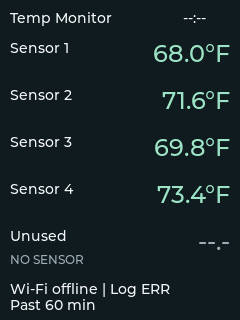
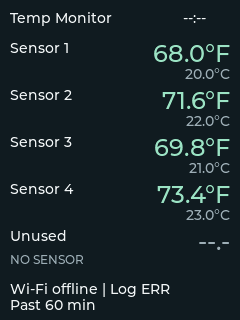
feat(display): show each reading in both Celsius and Fahrenheit on the Overview

diff --git a/firmware/display_tests/display_tests.cpp b/firmware/display_tests/display_tests.cpp
@@ -84,11 +84,20 @@ int main(int argc, char **argv) {
             Registry extreme_registry;
             extreme_registry.sample(extremes, 0);
             const auto fahrenheit_rows = display_rows(extreme_registry, true);
+            CHECK(fahrenheit_rows[0].alt_value == "125.0\xC2\xB0"
+                                                  "C");
+            CHECK(fahrenheit_rows[1].alt_value == "-55.0\xC2\xB0"
+                                                  "C");
+            CHECK(fahrenheit_rows[2].alt_value.empty()); // unused slot has no second unit
             CHECK(fahrenheit_rows[0].value == "257.0\xC2\xB0"
                                               "F");
             CHECK(fahrenheit_rows[1].value == "-67.0\xC2\xB0"
                                               "F");
             const auto celsius_rows = display_rows(extreme_registry, false);
+            CHECK(celsius_rows[0].alt_value == "257.0\xC2\xB0"
+                                               "F");
+            CHECK(celsius_rows[1].alt_value == "-67.0\xC2\xB0"
+                                               "F");
             CHECK(celsius_rows[0].value == "125.0\xC2\xB0"
                                            "C");
             CHECK(celsius_rows[1].value == "-55.0\xC2\xB0"
@@ -213,6 +222,7 @@ int main(int argc, char **argv) {
         CHECK(footer_text().find("Hold BOOT 75%") != std::string::npos);
         save("overview-off-and-lost");
         CHECK(display_rows(registry, false)[0].value == "OFF");
+        CHECK(display_rows(registry, false)[0].alt_value.empty()); // no reading, no second unit
         for (const auto &row : display_rows(registry, false))
             CHECK(row.value == "OFF" || row.value == "--.-");
         view.provisioning("TempMonitor-A1B2C3", "K7M4Q9XP2WTD", "H5RB2WTDK7M4Q9XP");
@@ -266,11 +276,35 @@ int main(int argc, char **argv) {
             lv_tick_inc(50);
             lv_refr_now(display);
             save("overview-compact-fahrenheit");
+            {
+                // Each reading shows in both scales on the compact Overview.
+                const auto both = visible_text(lv_screen_active());
+                for (const char *expected : {"257.0\xC2\xB0"
+                                             "F",
+                                             "125.0\xC2\xB0"
+                                             "C",
+                                             "-67.0\xC2\xB0"
+                                             "F",
+                                             "-55.0\xC2\xB0"
+                                             "C",
+                                             "64.5\xC2\xB0"
+                                             "F",
+                                             "18.1\xC2\xB0"
+                                             "C"})
+                    CHECK(both.find(expected) != std::string::npos);
+            }
             options.fahrenheit = false;
             view.render(compact_registry, cache, options, status, 1000);
             lv_tick_inc(50);
             lv_refr_now(display);
             save("overview-compact-celsius");
+            {
+                const auto both = visible_text(lv_screen_active());
+                CHECK(both.find("125.0\xC2\xB0"
+                                "C") != std::string::npos);
+                CHECK(both.find("257.0\xC2\xB0"
+                                "F") != std::string::npos);
+            }
             options.fahrenheit = true;
         }
         options.extended = true;

diff --git a/firmware/components/display_service/display_view.cpp b/firmware/components/display_service/display_view.cpp
@@ -82,6 +82,16 @@ DisplayView::DisplayView() {
                 compact ? &lv_font_montserrat_12
                         : (s == &overview_ ? &lv_font_montserrat_24 : &lv_font_montserrat_14));
             lv_obj_set_style_text_align(s->values[i], LV_TEXT_ALIGN_RIGHT, 0);
+            if (s == &overview_) {
+                // The same reading in the other unit, under the main value; hidden unless the
+                // row has a numeric reading, so it never meets the status text on the left.
+                s->alts[i] = label(s->root, compact ? 60 : 114, top + (compact ? 12 : 26),
+                                   compact ? 66 : 116,
+                                   compact ? &lv_font_montserrat_12 : &lv_font_montserrat_14);
+                lv_obj_set_style_text_align(s->alts[i], LV_TEXT_ALIGN_RIGHT, 0);
+                lv_obj_set_style_text_color(s->alts[i], lv_color_hex(setup_muted), 0);
+                lv_obj_set_hidden(s->alts[i], true);
+            }
             s->states[i] =
                 label(s->root, large_trend ? 2 : (compact ? 2 : (s == &overview_ ? 10 : 160)),
                       large_trend ? 122 : top + (compact ? 12 : 24),
@@ -201,8 +211,11 @@ void DisplayView::render(const Registry &registry, const TrendCache &cache,
             text_color(s->values[i], color(row.state));
             // The Trends status text depends on chart data computed below; setting it here and
             // overwriting it later flipped the label twice on every refresh.
-            if (s == &overview_)
+            if (s == &overview_) {
                 text(s->states[i], row.status);
+                text(s->alts[i], row.alt_value);
+                lv_obj_set_hidden(s->alts[i], row.alt_value.empty());
+            }
             text_color(s->states[i], color(row.state));
         }
         if (plots_changed || chart_roms_[i] != row.rom) {

diff --git a/firmware/components/monitor_core/display_model.cpp b/firmware/components/monitor_core/display_model.cpp
@@ -90,11 +90,14 @@ std::array<DisplayRow, max_sensors> display_rows(const Registry &registry, bool 
         }
         if ((row.state == State::normal || row.state == State::high || row.state == State::low) &&
             sensor.temperature && std::isfinite(*sensor.temperature)) {
+            const double celsius = *sensor.temperature, degrees_f = celsius * 1.8 + 32;
             char text[24];
-            std::snprintf(text, sizeof(text), "%.1f\xC2\xB0%s",
-                          fahrenheit ? *sensor.temperature * 1.8 + 32 : *sensor.temperature,
+            std::snprintf(text, sizeof(text), "%.1f\xC2\xB0%s", fahrenheit ? degrees_f : celsius,
                           fahrenheit ? "F" : "C");
             row.value = text;
+            std::snprintf(text, sizeof(text), "%.1f\xC2\xB0%s", fahrenheit ? celsius : degrees_f,
+                          fahrenheit ? "C" : "F");
+            row.alt_value = text;
         }
     }
     return rows;

diff --git a/firmware/components/monitor_core/include/display_model.hpp b/firmware/components/monitor_core/include/display_model.hpp
@@ -28,7 +28,9 @@ struct DisplayStatus {
 };
 struct DisplayRow {
     uint64_t rom = 0;
-    std::string label, value, status;
+    // `value` is in the configured unit; `alt_value` is the same reading in the other unit and
+    // is empty unless the row has a numeric reading.
+    std::string label, value, alt_value, status;
     State state = State::unassigned;
 };
 std::array<DisplayRow, max_sensors> display_rows(const Registry &registry, bool fahrenheit);

diff --git a/firmware/components/display_service/include/display_view.hpp b/firmware/components/display_service/include/display_view.hpp
@@ -19,7 +19,7 @@ class DisplayView {
   private:
     struct Screen {
         lv_obj_t *root, *time, *footer;
-        std::array<lv_obj_t *, max_sensors> labels{}, values{}, states{}, charts{};
+        std::array<lv_obj_t *, max_sensors> labels{}, values{}, alts{}, states{}, charts{};
         std::array<lv_obj_t *, max_sensors> no_data{};
         std::array<lv_chart_series_t *, max_sensors> series{};
     };

diff --git a/docs/LCD_UI_DESIGN_SPEC.md b/docs/LCD_UI_DESIGN_SPEC.md
@@ -42,7 +42,7 @@ No carousel, navigation strip, touch target, or on-screen settings control. A te
 **Content:**
 
 1. Header: short product name (`Temp Monitor` or `Temps`), compact Wi-Fi state icon, **local time** (`HH:MM`) when synchronized.
-2. Five fixed-order sensor rows, one per discovered or configured slot. Each row: abbreviated sensor label, prominent current temperature with unit (°C/°F), and warning/status icon as applicable.
+2. Five fixed-order sensor rows, one per discovered or configured slot. Each row: abbreviated sensor label, prominent current temperature in the configured unit (°C/°F), the same reading in the other unit in a smaller muted line beneath it (shown only when the row has a numeric reading), and warning/status icon as applicable. The Trends screen keeps a single unit.
 3. Lower status band: concise connectivity and logging/storage health indicators. Long IP addresses are **not** required in the main view.
 
 **Layout guidance (240 × 320 portrait):**
